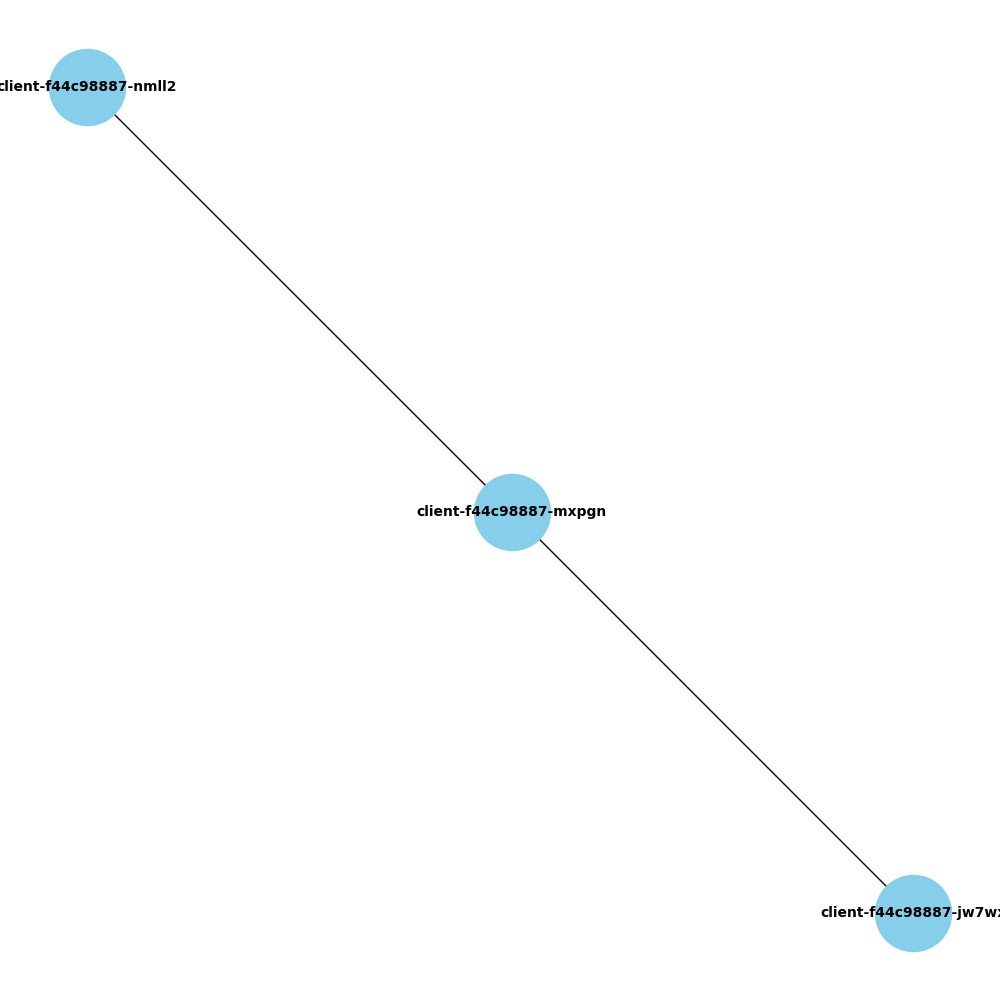
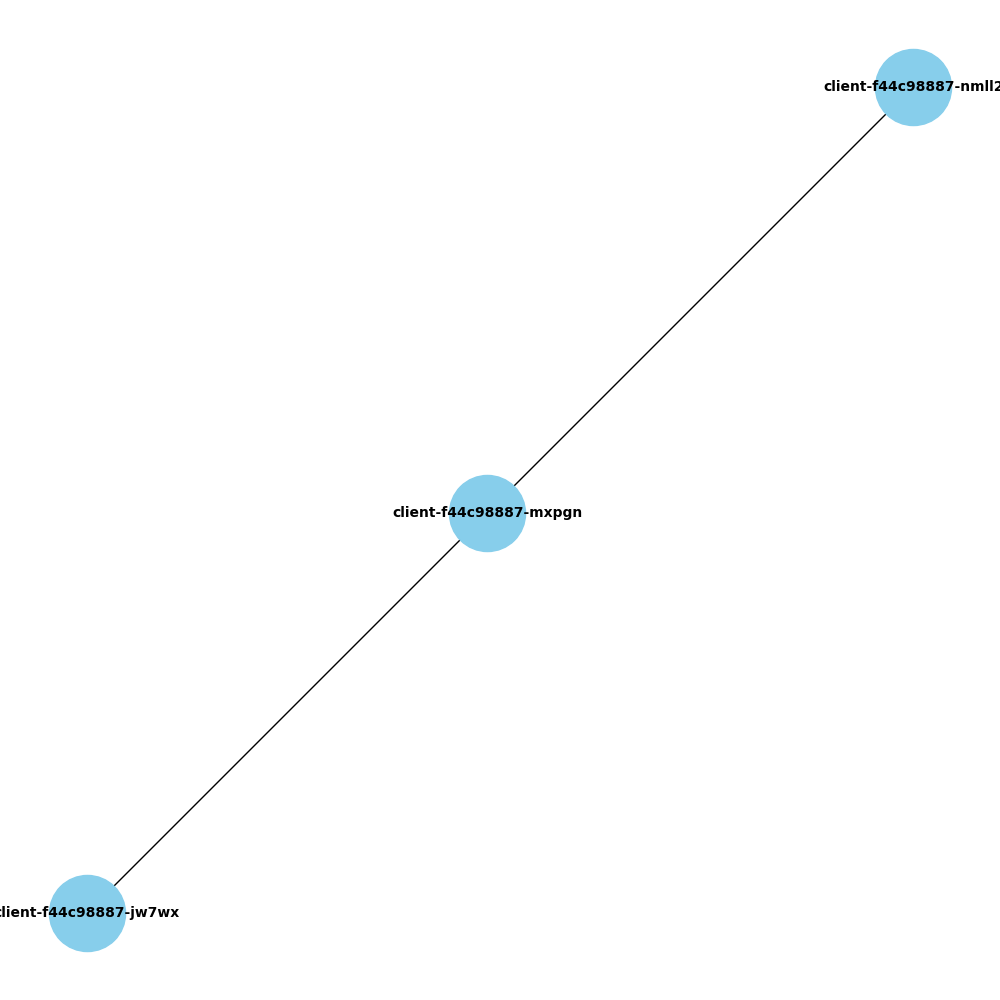
compile okay, still need to enhance, adding visualization functions and validation graphs

diff --git a/fed_relax.py b/fed_relax.py
@@ -1,3 +1,4 @@
+from turtle import pd
 from kubernetes import client, config
 import pickle
 import numpy as np
@@ -85,6 +86,8 @@ def init_attributes():
             "coords": node_features,
             "Xtrain": G.nodes[iter_node]["Xtrain"],
             "ytrain": G.nodes[iter_node]["ytrain"],
+            "Xval": G.nodes[iter_node]["Xval"],
+            "yval": G.nodes[iter_node]["yval"],
         }
 
         configmap_name = f"node-configmap-{iter_node}"
@@ -100,7 +103,7 @@ def init_attributes():
         print(f"ConfigMap {configmap_name} created/updated successfully.")\
 
         # Store pod attributes
-        pod_info[pod_name] = {"coords": node_features, "Xtrain": np.array(configmap_data["Xtrain"]), "ytrain": np.array(configmap_data["Xtrain"])}
+        pod_info[pod_name] = {"coords": node_features, "Xtrain": np.array(configmap_data["Xtrain"]), "ytrain": np.array(configmap_data["ytrain"]), "Xval": np.array(configmap_data["Xval"]), "yval": np.array(configmap_data["yval"])}
     
     return pod_info
 
@@ -155,6 +158,7 @@ def visualize_and_save_graph(graph, output_path):
 def FedRelax(Xtest, updated_graph, namespace="fed-relax", label_selector="app=fedrelax-client", regparam=0, maxiter=100):
     # Determine the number of data points in the test set
     testsize = Xtest.shape[0]
+    G = updated_graph
     
     # Attach a DecisionTreeRegressor as the local model to each node in G
     for node_i in G.nodes(data=False): 
@@ -186,41 +190,57 @@ def FedRelax(Xtest, updated_graph, namespace="fed-relax", label_selector="app=fe
     return G
 
 
-def PlotFinalGraph(graphin, pos='coord', annotate="name", output_path='/app/final.png'):
+def PlotFinalGraph(graphin, pos='coord', annotate='name'):
     # the numpy array x will hold the horizontal coord of markers for each node in emp. graph graphin
     x = np.zeros(len(graphin.nodes))
-    # vertical coords of markers
+    # vertical coords of markers 
     y = np.zeros(len(graphin.nodes))
 
-    for iter_node in graphin.nodes:
-        x[iter_node] = graphin.nodes[iter_node][pos][0]
-        y[iter_node] = graphin.nodes[iter_node][pos][1]
+    # Create a mapping between node names and their corresponding indices
+    name_to_index = {name: i for i, name in enumerate(graphin.nodes)}
 
-    # standardize the coordinates of node markers
-    x = (x - np.min(x, axis=0)) / np.std(x, axis=0) + 1
-    y = (y - np.min(y, axis=0)) / np.std(y, axis=0) + 1
+    for edge_dmy in graphin.edges:
+        node_i = name_to_index[edge_dmy[0]]  # Extract node indices from the edge tuple
+        node_j = name_to_index[edge_dmy[1]]  # Extract node indices from the edge tuple
 
-    # create a figure with prescribed dimensions
+        x[node_i] = graphin.nodes[edge_dmy[0]][pos][0]
+        x[node_j] = graphin.nodes[edge_dmy[1]][pos][0]
+
+        y[node_i] = graphin.nodes[edge_dmy[0]][pos][1]
+        y[node_j] = graphin.nodes[edge_dmy[1]][pos][1]
+
+    # standareize the coordinates of node markers 
+    x = (x - np.min(x, axis=0)) / np.std(x, axis=0) + 1 
+    y = (y - np.min(y, axis=0)) / np.std(y, axis=0) + 1 
+
+    # create a figure with prescribed dimensions 
     fig, ax = plt.subplots(figsize=(10, 10))
 
     # generate a scatter plot with each marker representing a node in graphin
     ax.scatter(x, y, 300, marker='o', color='Black')
 
-    # draw links between nodes if they are connected by an edge
-    for edge in graphin.edges:
-        node1 = edge[0]
-        node2 = edge[1]
-        if graphin.has_edge(node1, node2):  # Check if the edge exists
-            ax.plot([x[node1], x[node2]], [y[node1], y[node2]], c='black', lw=2)
+    # draw links between two nodes if they are connected by an edge 
+    # in the empirical graph. use the "weight" of the edge to determine the line thickness
+    for edge_dmy in graphin.edges:
+        node_i = name_to_index[edge_dmy[0]]  # Extract node indices from the edge tuple
+        node_j = name_to_index[edge_dmy[1]]  # Extract node indices from the edge tuple
+
+        ax.plot([x[node_i], x[node_j]], [y[node_i], y[node_j]], c='black', lw=4 * graphin.edges[edge_dmy]["weight"])
 
     # annotate each marker by the node attribute whose name is stored in the input parameter "annotate"
     for iter_node in graphin.nodes:
-        ax.annotate(str(graphin.nodes[iter_node][annotate]), (x[iter_node] + 0.2, 0.995 * y[iter_node]), c="red")
+        i = name_to_index[iter_node]
+        if annotate in graphin.nodes[iter_node]:
+            ax.annotate(str(graphin.nodes[iter_node][annotate]), (x[i] + 0.2, 0.995 * y[i]), c="red")
+        else:
+            ax.annotate(str(iter_node), (x[i] + 0.2, 0.995 * y[i]), c="red")
+
     ax.set_ylim(0.9 * np.min(y), 1.1 * np.max(y))
     ax.set_xlim(0.9 * np.min(x), 1.1 * np.max(x))
 
-    plt.savefig(output_path)  # Save the image to a file
-    print(f"Final graph is successfully saved in {output_path}")
+    plt.savefig('/app/final.png')  # Save the image to a file
+    print(f"Final graph is successfully saved in /app/final.png")
+
 
 # Initialize pod attributes
 pod_info = init_attributes()
@@ -256,7 +276,7 @@ st = time.time()
 final_graph = FedRelax(X_test, updated_graph)
 
 # Plot the graph
-visualize_and_save_graph(updated_graph, '/app/final_graph.png')
+visualize_and_save_graph(final_graph, '/app/final_graph.png')
 PlotFinalGraph(final_graph,pos='coords',annotate='name')
 
 end = time.time()
@@ -269,9 +289,34 @@ for iter_node in final_graph.nodes():
         train_features = final_graph.nodes[iter_node]["Xtrain"]
         train_labels = final_graph.nodes[iter_node]["ytrain"]
         final_graph.nodes[iter_node]["trainerr"] = mean_squared_error(train_labels, trained_local_model.predict(train_features))
-        # Assuming you have validation data for each node
-        val_features = final_graph.nodes[iter_node]["Xval"]
-        val_labels = final_graph.nodes[iter_node]["yval"]
-        final_graph.nodes[iter_node]["valerr"] = mean_squared_error(val_labels, trained_local_model.predict(val_features))
+        
+        # Check if 'Xval' and 'yval' exist in the node attributes
+        if "Xval" in final_graph.nodes[iter_node] and "yval" in final_graph.nodes[iter_node]:
+            val_features = final_graph.nodes[iter_node]["Xval"]
+            val_labels = final_graph.nodes[iter_node]["yval"]
+            final_graph.nodes[iter_node]["valerr"] = mean_squared_error(val_labels, trained_local_model.predict(val_features))
+        else:
+            print(f"Warning: 'Xval' or 'yval' attribute not found for node {iter_node}")
     else:
         print(f"Warning: 'model' attribute not found for node {iter_node}")
+
+
+print("average train error :",sum(nx.get_node_attributes(G, "trainerr").values())/len(G.nodes()))
+print("average val error :",sum(nx.get_node_attributes(G, "valerr").values())/len(G.nodes()))
+
+pod_to_int = {}
+for i, pod in enumerate(pod_info):
+    pod_to_int[i] = pod
+X_val = final_graph.nodes[pod_to_int[0]]["Xval"]
+y_1 = final_graph.nodes[pod_to_int[1]]["model"].predict(X_val)
+y_2 = final_graph.nodes[pod_to_int[2]]["model"].predict(X_val)
+
+# Plot the results
+# TODO: Current phase is for testing purposes only, need to update this later
+plt.figure()
+plt.plot(X_val, y_1, color="orange", label="validation data cluster 0", linewidth=2)
+plt.plot(X_val, y_2, color="green", label="validation data cluster 0", linewidth=2)
+plt.plot(final_graph.nodes[pod_to_int[1]]["Xval"], final_graph.nodes[pod_to_int[0]]["yval"], color="blue", label="validation data cluster 0", linewidth=2)
+plt.plot(final_graph.nodes[pod_to_int[2]]["Xval"], final_graph.nodes[pod_to_int[1]]["yval"], color="red", label="val data second cluster", linewidth=2)
+plt.savefig('/app/validation.png')  # Save the image to a file
+print(f"Validation graph is successfully saved in /app/validation.png")
